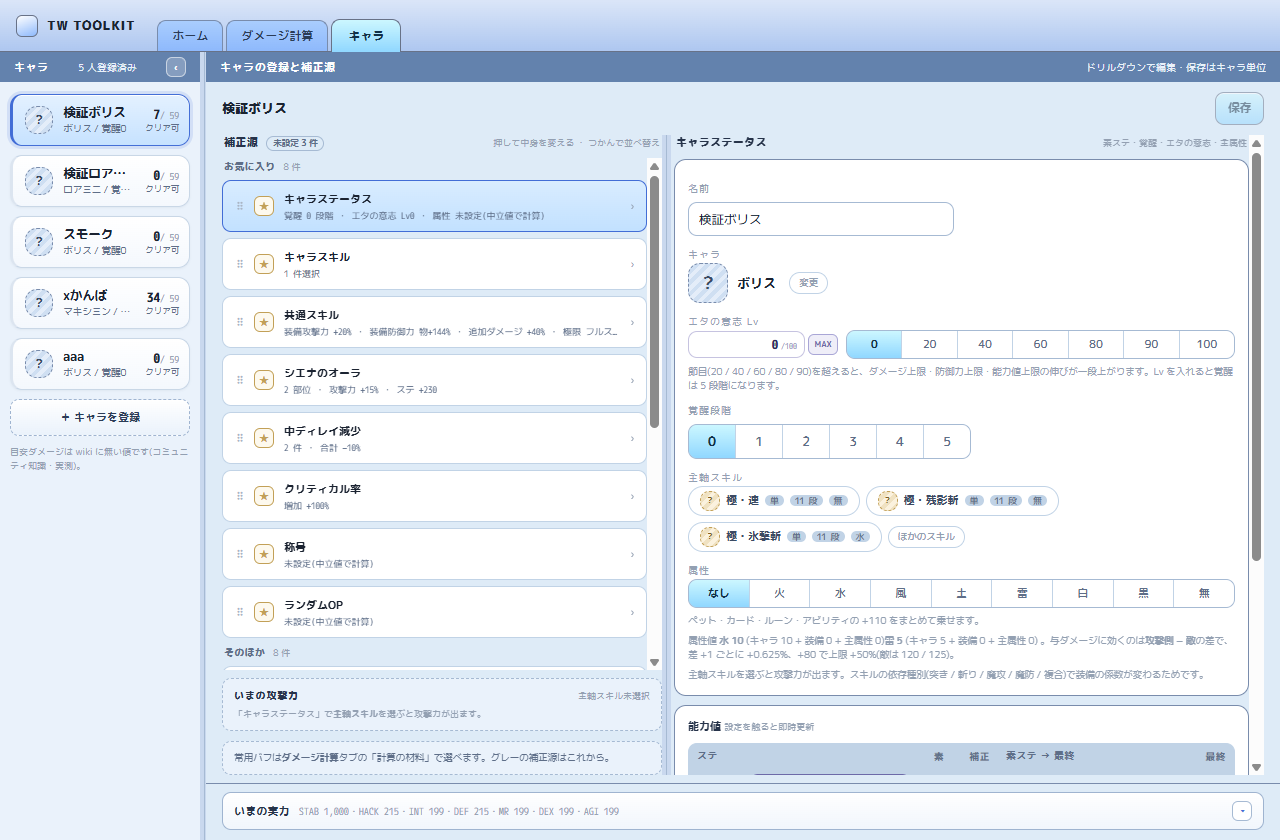
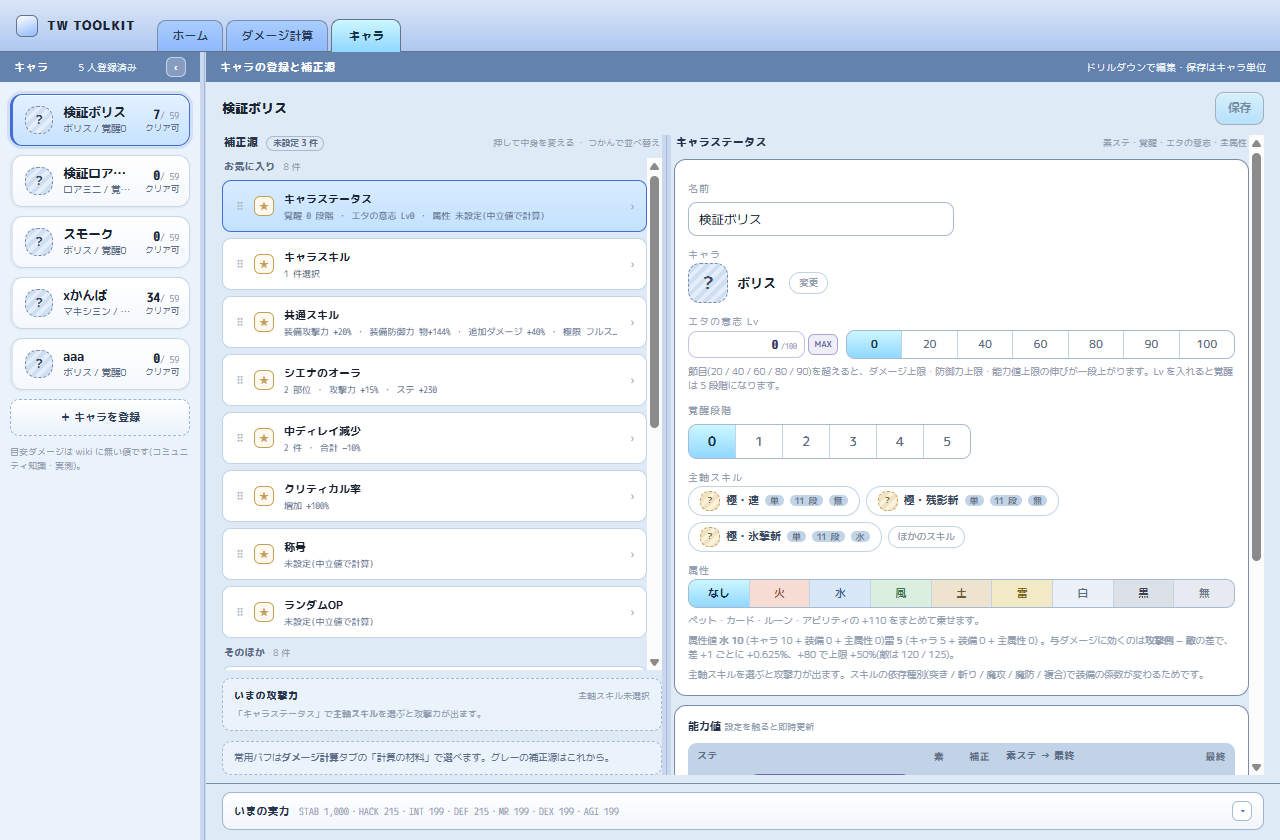
feat(ui): 属性にやんわりした面の色を付ける(§03 属性 8 色)
属性は「どれか」を読ませる場所が多い(段・スキルのチップ・値)のに、文字だけだった。
8 色を足して面をやんわり染める。

- 状態の 6 系統・予約色とは**別系統**。意味は「どの属性か」だけなので、
  彩度を落として面にだけ使い、帯や到達判定のバッジには使わない
- 選ばれている段は水色(選択)が勝つ。属性色が状態を言わないようにする
- StepSelect に tone を足して、段ごとに色を付けられるようにした
- design-system §03 に 8 色と使い方を追記

Claude-Session: https://claude.ai/code/session_01JvRWxU3ohwNNHW2hQatCCP

Changed region(s): [[0.5625, 0.681, 0.9375, 0.7429]]

diff --git a/apps/desktop/src/app.css b/apps/desktop/src/app.css
@@ -48,6 +48,18 @@
   --cell-full-bg: linear-gradient(180deg, #F3F0FF, #E6E1FA);
   --cell-max-full-bg: linear-gradient(180deg, #CFC9F5, #B3ACE8);
 
+  /* 属性 8 色(§03)。**状態の 6 系統とは別系統**で、意味は「どの属性か」だけ。
+     予約色(金 = 操作待ち / ラベンダー = 保存されない)と読み違えないよう、
+     **彩度を落として面(bg)にだけ使う**。帯・到達判定のバッジには使わない */
+  --elem-fire-bg: #F7DCD3;    --elem-fire-fg: #944A36;
+  --elem-water-bg: #D9E8F8;   --elem-water-fg: #33608F;
+  --elem-wind-bg: #DAEFE0;    --elem-wind-fg: #35734D;
+  --elem-earth-bg: #EDE3CF;   --elem-earth-fg: #6D5A33;
+  --elem-thunder-bg: #F2E9C6; --elem-thunder-fg: #7A661F;
+  --elem-white-bg: #ECF1F8;   --elem-white-fg: #5E6B7E;
+  --elem-black-bg: #DCE0E7;   --elem-black-fg: #3C4351;
+  --elem-neutral-bg: #E7EAF0; --elem-neutral-fg: #6F7A8C;
+
   /* 状態の 6 系統(§03)。到達判定のバッジ・量バー・候補チップはこの 6 つから選ぶ。
      ラベル(「余裕」「通る」…)は画面ごとに変えてよいが、色と意味の対応は変えない。
      参照は src/ui/states.ts 経由(inline style に hex を書かない) */
@@ -312,6 +324,24 @@ table.grid.ro td, table.grid td.ro { background: var(--surface-inset); }
   width: 100%; gap: 1px; background: var(--border-soft);
 }
 .seg.cols button { border-right: 0; text-align: center; padding: 5px 4px; }
+
+/* 属性のやんわりした面。段・チップ・値の背景に使う(§03 の属性 8 色)。
+   クラスを 2 回書いているのは、`.seg button` のような「要素込みの指定」に負けないため */
+.elem-fire.elem-fire { background: var(--elem-fire-bg); color: var(--elem-fire-fg); }
+.elem-water.elem-water { background: var(--elem-water-bg); color: var(--elem-water-fg); }
+.elem-wind.elem-wind { background: var(--elem-wind-bg); color: var(--elem-wind-fg); }
+.elem-earth.elem-earth { background: var(--elem-earth-bg); color: var(--elem-earth-fg); }
+.elem-thunder.elem-thunder { background: var(--elem-thunder-bg); color: var(--elem-thunder-fg); }
+.elem-white.elem-white { background: var(--elem-white-bg); color: var(--elem-white-fg); }
+.elem-black.elem-black { background: var(--elem-black-bg); color: var(--elem-black-fg); }
+.elem-neutral.elem-neutral { background: var(--elem-neutral-bg); color: var(--elem-neutral-fg); }
+/* 選ばれている段は水色(§03 の選択)が勝つ。属性色は「どれか」を言うだけで、状態は言わない */
+.seg button.on.elem-fire.elem-fire, .seg button.on.elem-water.elem-water,
+.seg button.on.elem-wind.elem-wind, .seg button.on.elem-earth.elem-earth,
+.seg button.on.elem-thunder.elem-thunder, .seg button.on.elem-white.elem-white,
+.seg button.on.elem-black.elem-black, .seg button.on.elem-neutral.elem-neutral {
+  background: var(--sel); color: var(--sel-fg);
+}
 
 /* --- 多数から 1 つ選ぶ(ui/Picker.svelte)-----------------------------------------
    素の <select> の代わり。**1 件 1 行**で、名前のほかに選ぶのに要る値とアイコンを持てる。

diff --git a/docs/design-system.html b/docs/design-system.html
@@ -357,6 +357,8 @@ li::marker { color: var(--fg-dim); }
 
 /* --- 色見本 --------------------------------------------------------------- */
 
+.elem-row { display: flex; flex-wrap: wrap; gap: 6px; }
+.elem-row .elem { padding: 5px 14px; border-radius: var(--r-panel); font-size: 12px; font-weight: 700; }
 .swatches { display: grid; grid-template-columns: repeat(auto-fit, minmax(158px, 1fr)); gap: 8px; }
 .sw {
   display: flex; align-items: center; gap: 9px; text-align: left;
@@ -1520,6 +1522,23 @@ td code { background: var(--card-soft2); }
             <span class="state-badge"><span class="badge b5">条件だけ未達</span> <span class="cap">#EFEEF8 / #6D6AA8 &nbsp;<code>--state-temp-*</code></span></span>
           </div>
         </div>
+
+        <div class="sec">属性 8 色<span class="r">状態の 6 系統とは別系統</span></div>
+        <div class="spec col" style="gap:6px">
+          <div class="elem-row">
+            <span class="elem" style="background:#F7DCD3;color:#944A36">火</span>
+            <span class="elem" style="background:#D9E8F8;color:#33608F">水</span>
+            <span class="elem" style="background:#DAEFE0;color:#35734D">風</span>
+            <span class="elem" style="background:#EDE3CF;color:#6D5A33">土</span>
+            <span class="elem" style="background:#F2E9C6;color:#7A661F">雷</span>
+            <span class="elem" style="background:#ECF1F8;color:#5E6B7E">白</span>
+            <span class="elem" style="background:#DCE0E7;color:#3C4351">黒</span>
+            <span class="elem" style="background:#E7EAF0;color:#6F7A8C">無</span>
+          </div>
+        </div>
+        <p class="cap"><b>意味は「どの属性か」だけで、状態は言わない。</b>だから<strong>彩度を落として面(bg)にだけ使い、帯・到達判定のバッジには使わない</strong> —
+          金(操作待ち)やラベンダー(保存されない)と読み違えられると、予約色の意味が壊れる。
+          選ばれている段は水色(選択)が勝つ。トークンは <code>--elem-&lt;属性&gt;-bg</code> / <code>-fg</code>。</p>
 
         <div class="sec">予約色<span class="r">この用途以外に使わない</span></div>
         <div class="reserved">

diff --git a/apps/desktop/src/pages/chars/SourcePane.svelte b/apps/desktop/src/pages/chars/SourcePane.svelte
@@ -850,7 +850,7 @@
                   {sk.target === null ? "?" : sk.target === "single" ? "単" : "範"}
                 </span>
                 <span class="skill-meta num">{sk.hit_count} 段</span>
-                <span class="skill-meta num">{ELEMENT_LABELS[sk.element]}</span>
+                <span class="skill-meta num elem-{sk.element}">{ELEMENT_LABELS[sk.element]}</span>
               </button>
             {/each}
             {#if skills.length > topSkills.length}
@@ -892,6 +892,7 @@
               label=""
               options={elementOptions}
               cols={elementOptions.length}
+              tone={(v) => (v === "" ? undefined : `elem-${v}`)}
               bind:value={() => mainElement, setMainElement}
             />
             <p class="hint dim">ペット・カード・ルーン・アビリティの +{elementSourceTotal} をまとめて乗せます。</p>

diff --git a/apps/desktop/src/ui/StepSelect.svelte b/apps/desktop/src/ui/StepSelect.svelte
@@ -21,8 +21,10 @@
     full?: boolean;
     /** 列を固定して並べる(§08 `.seg.cols`)。折り返しても行をまたいで幅が揃う */
     cols?: number;
+    /** 段ごとに足すクラス(属性のやんわりした面など)。`value -> class` */
+    tone?: (value: string) => string | undefined;
   }
-  let { label, value = $bindable(), options, disabled = false, full = false, cols }: Props = $props();
+  let { label, value = $bindable(), options, disabled = false, full = false, cols, tone }: Props = $props();
 </script>
 
 <div class="step-select">
@@ -38,7 +40,7 @@
     {#each options as o (o.value)}
       <button
         type="button"
-        class="step"
+        class="step {tone?.(o.value) ?? ''}"
         class:on={o.value === value}
         role="radio"
         aria-checked={o.value === value}
